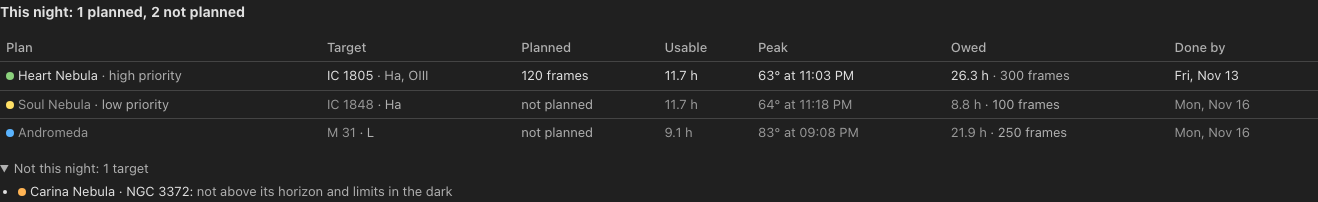
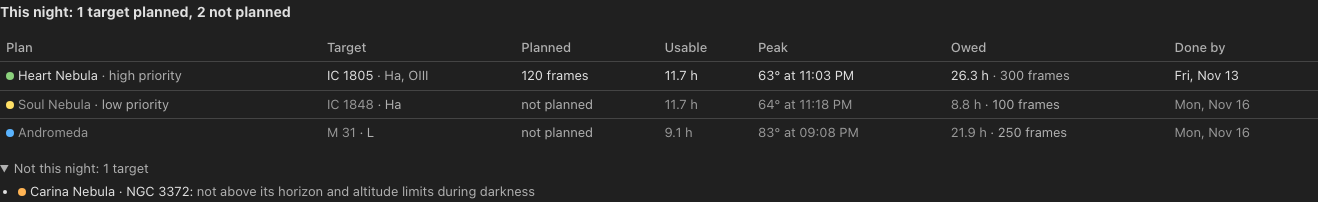
Follow the writing guide in the plan table's labels
Reasons describe what limits the target instead of personifying a rule
("its filters' Moon avoidance excludes every clear hour", "not above its
horizon and altitude limits during darkness"). Counts name what they
count ("1 target planned"), the empty heading says "No owed target can be
imaged this night", and the Moon's hours read "excluded by the Moon". The
documentation lists the reasons one per line.

Claude-Session: https://claude.ai/code/session_01QRRMrqiH2vB7WUWPTee9mb

Changed region(s): [[0.2489, 0.9208, 0.4044, 0.9802], [0.0622, 0.0297, 0.2178, 0.0891]]

diff --git a/static/src/components/nights/NightDetail.tsx b/static/src/components/nights/NightDetail.tsx
@@ -173,15 +173,16 @@ function PlanHours({ rig, night, colours, view }: { rig: RigNights; night: RigNi
   const { applies, out } = planRows(rig, night, schedule);
   const planned = applies.filter(row => row.status === 'planned').length;
   const notPlanned = applies.length - planned;
-  const heading = applies.length === 0 ? 'Nothing owed can be shot this night'
-    : scheduled ? `This night: ${[planned && `${planned} planned`, notPlanned && `${notPlanned} not planned`].filter(Boolean).join(', ')}`
-    : `This night: ${applies.length} up and clear`;
+  const targets = (count: number) => `${count} target${count === 1 ? '' : 's'}`;
+  const heading = applies.length === 0 ? 'No owed target can be imaged this night'
+    : scheduled ? `This night: ${[planned && `${targets(planned)} planned`, notPlanned && `${planned ? notPlanned : targets(notPlanned)} not planned`].filter(Boolean).join(', ')}`
+    : `This night: ${targets(applies.length)} up and clear`;
   const planName = (row: PlanRow) => <><span className="nights-plan-dot" data-colour={colours.get(row.plan.name) ?? 0} aria-hidden="true" />{row.plan.name}</>;
   const frames = (count: number) => `${count} frame${count === 1 ? '' : 's'}`;
   const headingId = `nights-plans-${rig.rig.id}-${night.date}`;
   return <section className="nights-plans" aria-labelledby={headingId}>
     <h4 id={headingId}>{heading}</h4>
-    {view.tonight && applies.length > 0 && <p className="director-muted">Usable hours are the whole night's; tonight is planned from now.</p>}
+    {view.tonight && applies.length > 0 && <p className="director-muted">Usable hours count the whole night. Tonight's schedule plans only from now.</p>}
     {applies.length > 0 && <div className="director-table-scroll"><table className="nights-plan-table">
       <thead><tr><th>Plan</th><th>Target</th>{scheduled && <th>Planned</th>}<th>Usable</th><th>Peak</th><th>Owed</th>{doneBy && <th>Done by</th>}</tr></thead>
       <tbody>{applies.map(row => {
@@ -191,20 +192,20 @@ function PlanHours({ rig, night, colours, view }: { rig: RigNights; night: RigNi
           <td>{planName(row)}{row.plan.priority !== 'normal' && <span className="director-muted"> · {row.plan.priority} priority</span>}</td>
           <td>{row.target.name}<span className="director-muted"> · {row.target.filters.join(', ')}</span></td>
           {scheduled && <td>{row.planned > 0 ? frames(row.planned) : <span className="director-muted">not planned</span>}</td>}
-          <td>{formatHours(row.usable)}{blocked > 0 && <span className="director-muted"> · Moon blocks {formatHours(blocked)}</span>}</td>
+          <td>{formatHours(row.usable)}{blocked > 0 && <span className="director-muted"> · {formatHours(blocked)} excluded by the Moon</span>}</td>
           <td>{row.hours && row.hours.max_altitude_degrees > -90 ? `${Math.round(row.hours.max_altitude_degrees)}°${row.hours.transit_ms ? ` at ${formatClock(row.hours.transit_ms)}` : ''}` : '—'}</td>
           <td>{formatHours(row.target.hours_owed)}<span className="director-muted"> · {frames(row.target.frames_owed)}</span></td>
           {doneBy && <td>{done === null || done < 0
-            ? <span className="director-muted">not in {doneBy.nights.length} nights</span>
+            ? <span className="director-muted">not within these {doneBy.nights.length} nights</span>
             : formatNightDate(doneBy.nights[done]?.date ?? night.date)}</td>}
         </tr>;
       })}</tbody>
     </table></div>}
     {out.length > 0 && <details className="nights-other-plans" open={applies.length === 0}>
-      <summary>Not this night: {out.length} target{out.length === 1 ? '' : 's'}</summary>
+      <summary>Not this night: {targets(out.length)}</summary>
       <ul>{out.map(row => <li key={`${row.plan.project_id}:${row.target.target_id}`}>
         {planName(row)} · {row.target.name}: <span className="director-muted">{row.status === 'done'
-          ? `done ${row.done_on ? `by ${formatNightDate(row.done_on)}` : 'before these nights'}`
+          ? `plan done ${row.done_on ? `by ${formatNightDate(row.done_on)}` : 'before these nights'}`
           : OUT_REASON[row.status as keyof typeof OUT_REASON]}</span>
       </li>)}</ul>
     </details>}

diff --git a/static/src/components/nights/__tests__/NightsView.test.tsx b/static/src/components/nights/__tests__/NightsView.test.tsx
@@ -64,16 +64,16 @@ describe('Nights', () => {
     expect(within(detail).getByText('· dome motor')).toBeInTheDocument();
     // Marked out, the night applies to nothing; the target folds away
     // with its reason.
-    const plansTonight = within(detail).getByRole('region', { name: 'Nothing owed can be shot this night' });
+    const plansTonight = within(detail).getByRole('region', { name: 'No owed target can be imaged this night' });
     expect(within(plansTonight).getByText('Not this night: 1 target')).toBeInTheDocument();
-    expect(within(plansTonight).getByRole('listitem')).toHaveTextContent('Heart Nebula · IC 1805: up only while the night is marked not clear');
+    expect(within(plansTonight).getByRole('listitem')).toHaveTextContent('Heart Nebula · IC 1805: above its limits only while the night is marked not clear');
     expect(cells[1]).toHaveAttribute('aria-pressed', 'true');
     // A clear night lists it, usable for its hours less the Moon's. With
     // no schedule to say what is planned, nothing is called waiting.
     fireEvent.click(cells[0]);
-    const clearNight = within(screen.getByRole('region', { name: 'Night details' })).getByRole('region', { name: 'This night: 1 up and clear' });
+    const clearNight = within(screen.getByRole('region', { name: 'Night details' })).getByRole('region', { name: 'This night: 1 target up and clear' });
     const row = within(clearNight).getByRole('row', { name: /IC 1805/ });
-    expect(row).toHaveTextContent('5.0 h · Moon blocks 1.0 h');
+    expect(row).toHaveTextContent('5.0 h · 1.0 h excluded by the Moon');
     expect(row).not.toHaveClass('is-idle-plan');
   });
 

diff --git a/static/e2e-director/nights.spec.ts b/static/e2e-director/nights.spec.ts
@@ -108,12 +108,12 @@ test('Nights shows every rig across the coming nights, a night\'s schedule, and 
     await shot(page, 'nights-schedule', name => testInfo.outputPath(name));
 
     // The plan table lists what the night applies to and folds the rest.
-    const plans = detail.getByRole('region', { name: /^This night: [1-9]\d* planned/ });
+    const plans = detail.getByRole('region', { name: /^This night: [1-9]\d* targets? planned/ });
     await expect(plans).toBeVisible();
     await expect(plans.getByRole('row').filter({ hasText: 'Heart Nebula' }).getByRole('cell', { name: /^\d+ frames?$/ })).toBeVisible();
     // Andromeda may fold too, on nights the Moon turns it down.
     await plans.getByText(/^Not this night: \d+ targets?$/).click();
-    await expect(plans.getByRole('listitem').filter({ hasText: 'Carina Nebula · NGC 3372' })).toContainText('not above its horizon and limits in the dark');
+    await expect(plans.getByRole('listitem').filter({ hasText: 'Carina Nebula · NGC 3372' })).toContainText('not above its horizon and altitude limits during darkness');
     await expect(plans.getByRole('row').filter({ hasText: 'Carina Nebula' })).toHaveCount(0);
     await shot(plans, 'nights-plans', name => testInfo.outputPath(name), false);
 

diff --git a/static/src/components/nights/nightsModel.ts b/static/src/components/nights/nightsModel.ts
@@ -192,11 +192,11 @@ export type NightTargetStatus =
 /** Why a target the night does not apply to is out, but for `done`, whose
  *  reason names the night. */
 export const OUT_REASON: Record<Exclude<NightTargetStatus, 'planned' | 'usable' | 'done'>, string> = {
-  moon: 'the Moon rules of its filters turn it down',
-  not_clear: 'up only while the night is marked not clear',
-  outside_window: 'not up in its meridian window in the dark',
-  below_limits: 'not above its horizon and limits in the dark',
-  no_darkness: 'no darkness this night',
+  moon: "its filters' Moon avoidance excludes every clear hour",
+  not_clear: 'above its limits only while the night is marked not clear',
+  outside_window: 'not above its limits inside its meridian window during darkness',
+  below_limits: 'not above its horizon and altitude limits during darkness',
+  no_darkness: 'the sky does not get dark this night',
 };
 
 export interface PlanRow {

diff --git a/docs/DIRECTOR.md b/docs/DIRECTOR.md
@@ -1910,18 +1910,26 @@ Choose a cell to open the night below the grid:
   a target and its filter runs inside. Gaps are shaded by their reason:
   twilight, not available, Moon, meridian, below limits, all done, or
   nothing fits. Choose a block to see why that target was chosen.
-- **The plans this night**: only the targets the night applies to. First
-  come those the schedule above shoots, in its order, with the frames
-  planned; then those that are up and clear but not planned. Each row gives
-  the usable hours (up, clear and allowed by the Moon, and the hours the
-  Moon blocks), the peak altitude, what the target still owes, and, for the
-  rig's own schedule, the night its plan is done within the range. The
-  targets the night does not apply to fold into **Not this night**, each
-  with its reason: done on an earlier night, the Moon rules of its filters,
-  up only while the night is marked not clear, not up in its meridian
-  window, not above its horizon and limits in the dark, or no darkness.
-  Tonight's usable hours are the whole night's, while its schedule plans
-  from now.
+- **The plans this night**: only the targets the night applies to. The
+  table lists first the targets the schedule above plans, in its order,
+  with the frames planned. Then it lists the targets that are up and clear
+  but not planned. Each row shows:
+  - the usable hours: up, clear and allowed by Moon avoidance, with the
+    hours Moon avoidance excludes;
+  - the peak altitude;
+  - what the target still owes;
+  - for the rig's own schedule, the night its plan is done within the range.
+
+  The other targets fold into **Not this night**, each with its reason:
+  - its plan is done on an earlier night;
+  - its filters' Moon avoidance excludes every clear hour;
+  - it is above its limits only while the night is marked not clear;
+  - it is not above its limits inside its meridian window during darkness;
+  - it is not above its horizon and altitude limits during darkness;
+  - the sky does not get dark that night.
+
+  Tonight's usable hours count the whole night, while its schedule plans
+  only from now.
 
 ![A night's Target Scheduler schedule, with the scores behind the chosen block](images/nights-schedule.png)
 
